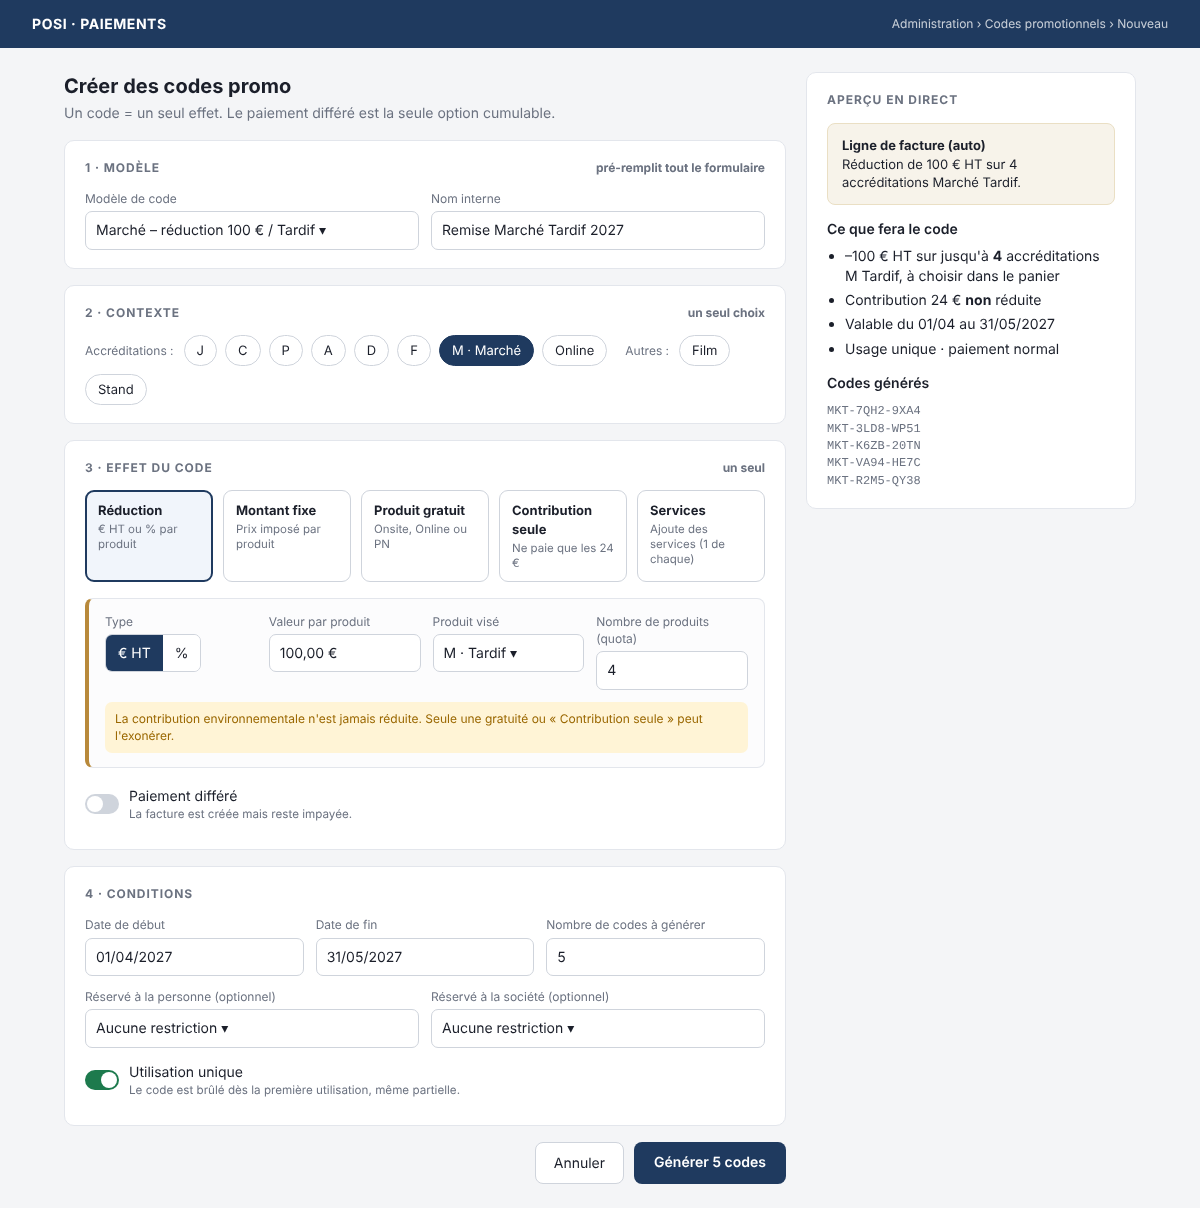
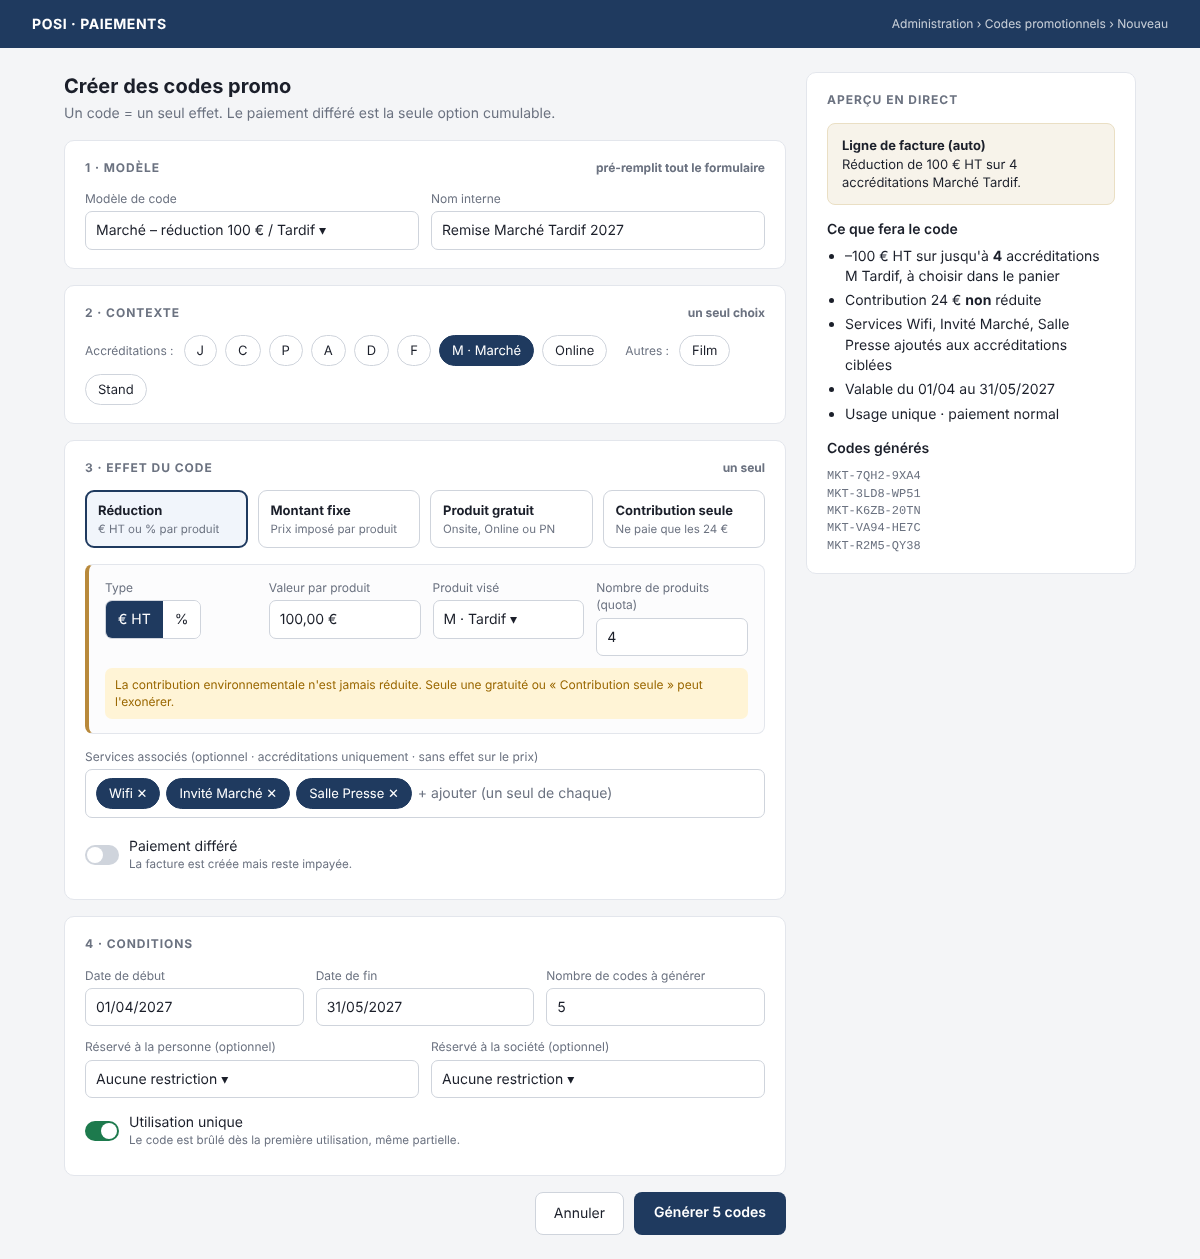
Services as optional add-on to accreditation codes; Online rate at 10% VAT without contribution
Claude-Session: https://claude.ai/code/session_01VdrL6XLcPXGpwtdbeJzEmH

diff --git a/maquettes/createur-codes.html b/maquettes/createur-codes.html
@@ -28,7 +28,7 @@
   .chip{border:1px solid #cfd4dc;border-radius:999px;padding:5px 12px;font-size:13px;background:#fff}
   .chip.on{background:var(--brand);border-color:var(--brand);color:#fff}
   .lab{color:var(--muted);font-size:12px;margin-right:2px}
-  .eff{display:grid;grid-template-columns:repeat(5,1fr);gap:10px;margin-bottom:16px}
+  .eff{display:grid;grid-template-columns:repeat(4,1fr);gap:10px;margin-bottom:16px}
   .opt{border:1px solid #cfd4dc;border-radius:9px;padding:10px 12px;background:#fff}
   .opt b{display:block;font-size:13px}.opt small{color:var(--muted);font-size:11.5px;line-height:1.3;display:block;margin-top:2px}
   .opt.on{border:2px solid var(--brand);background:#f1f5fb;padding:9px 11px}
@@ -84,7 +84,6 @@
       <div class="opt"><b>Montant fixe</b><small>Prix imposé par produit</small></div>
       <div class="opt"><b>Produit gratuit</b><small>Onsite, Online ou PN</small></div>
       <div class="opt"><b>Contribution seule</b><small>Ne paie que les 24 €</small></div>
-      <div class="opt"><b>Services</b><small>Ajoute des services (1 de chaque)</small></div>
     </div>
     <div class="panel">
       <div class="grid g4">
@@ -94,6 +93,9 @@
         <div><label>Nombre de produits (quota)</label><div class="f">4</div></div>
       </div>
       <div class="note">La contribution environnementale n'est jamais réduite. Seule une gratuité ou « Contribution seule » peut l'exonérer.</div>
+    </div>
+    <div style="margin-top:14px"><label>Services associés <em style="font-style:normal">(optionnel · accréditations uniquement · sans effet sur le prix)</em></label>
+      <div class="f" style="display:flex;gap:6px;flex-wrap:wrap;align-items:center"><span class="chip on">Wifi ✕</span><span class="chip on">Invité Marché ✕</span><span class="chip on">Salle Presse ✕</span><span style="color:var(--muted)">+ ajouter (un seul de chaque)</span></div>
     </div>
     <div class="tog" style="margin-top:10px"><div class="sw"></div><div>Paiement différé<small>La facture est créée mais reste impayée.</small></div></div>
   </section>
@@ -126,6 +128,7 @@
     <ul>
       <li>–100 € HT sur jusqu'à <b>4</b> accréditations M Tardif, à choisir dans le panier</li>
       <li>Contribution 24 € <b>non</b> réduite</li>
+      <li>Services Wifi, Invité Marché, Salle Presse ajoutés aux accréditations ciblées</li>
       <li>Valable du 01/04 au 31/05/2027</li>
       <li>Usage unique · paiement normal</li>
     </ul>
